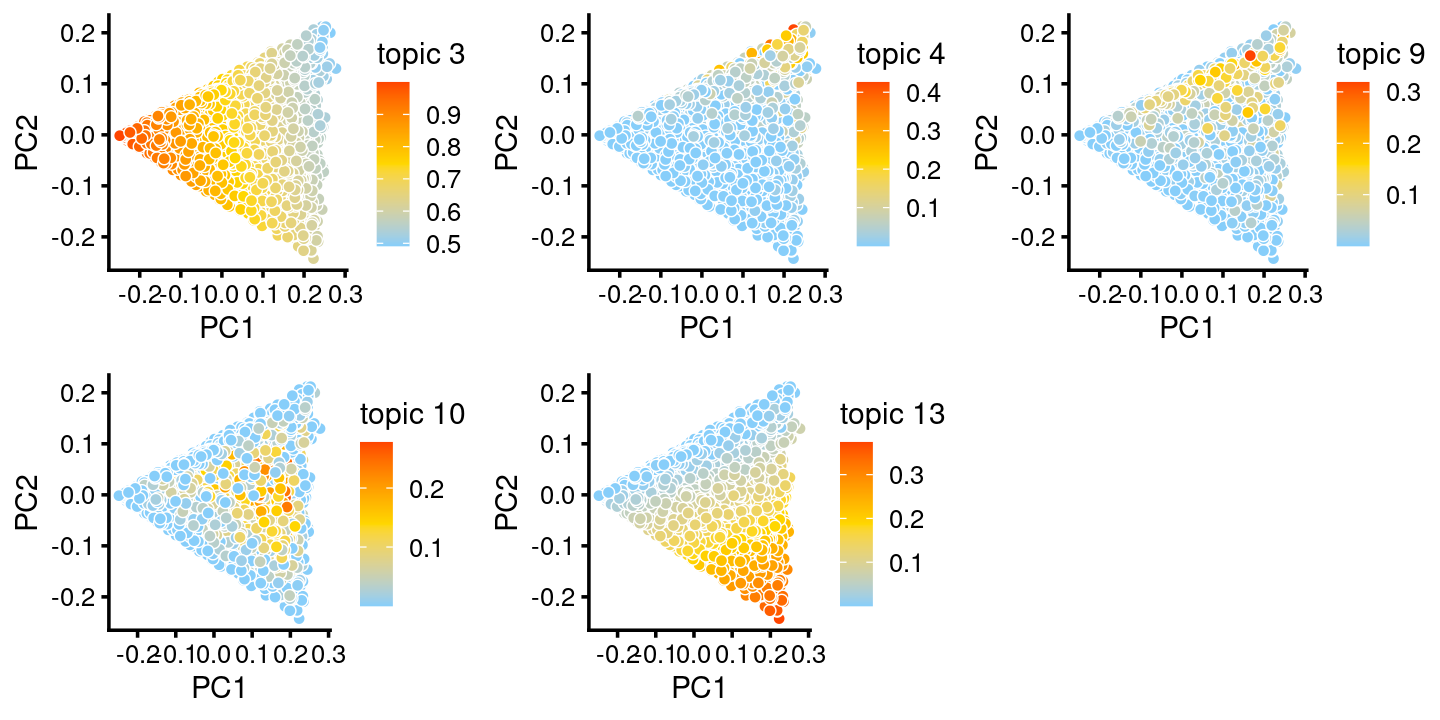
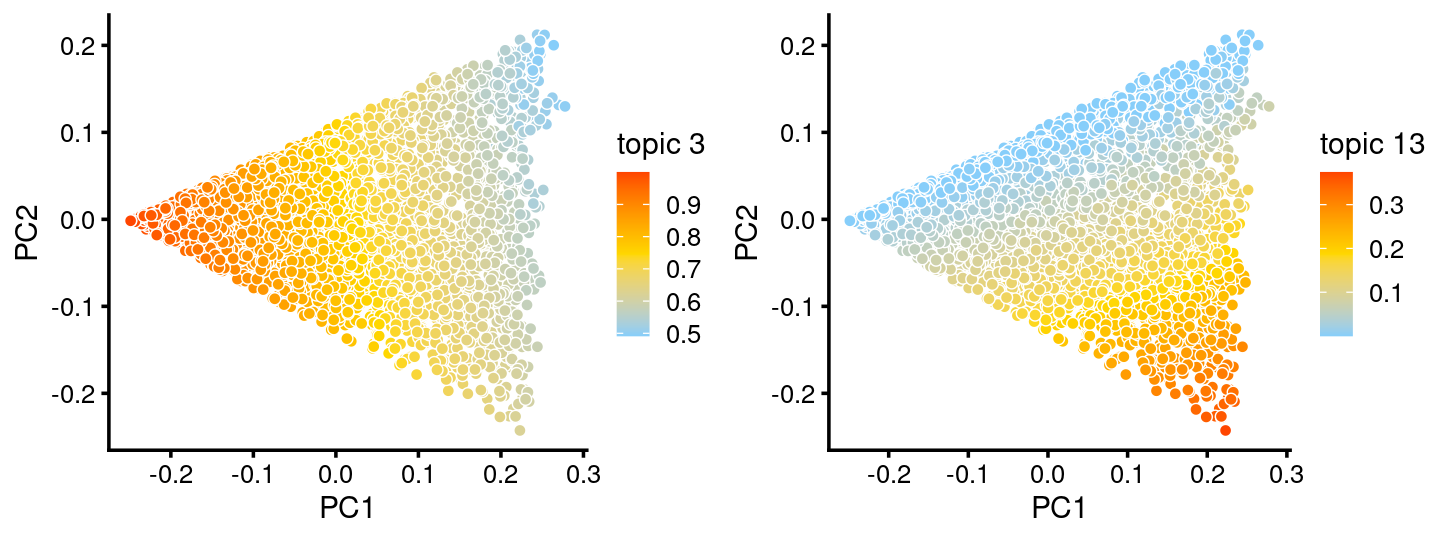
Build site.

diff --git a/docs/clusters_Cusanovich2018_k13.html b/docs/clusters_Cusanovich2018_k13.html
@@ -501,16 +501,16 @@ This reproducible <a href="http://rmarkdown.rstudio.com">R Markdown</a> analysis
 <div class="panel panel-default">
 <div class="panel-heading">
 <p class="panel-title">
-<a data-toggle="collapse" data-parent="#workflowr-checks" href="#strongRepositoryversionstrongahrefhttpsgithubcomstephenslabscATACseqtopicstree586af90be0b53f3c537e043570a352acaccf9b2etargetblank586af90a"> <span class="glyphicon glyphicon-ok text-success" aria-hidden="true"></span> <strong>Repository version:</strong> <a href="https://github.com/stephenslab/scATACseq-topics/tree/586af90be0b53f3c537e043570a352acaccf9b2e" target="_blank">586af90</a> </a>
+<a data-toggle="collapse" data-parent="#workflowr-checks" href="#strongRepositoryversionstrongahrefhttpsgithubcomstephenslabscATACseqtopicstreeb30b5c6404eb0279fd9906ff365db595986ee4d1targetblankb30b5c6a"> <span class="glyphicon glyphicon-ok text-success" aria-hidden="true"></span> <strong>Repository version:</strong> <a href="https://github.com/stephenslab/scATACseq-topics/tree/b30b5c6404eb0279fd9906ff365db595986ee4d1" target="_blank">b30b5c6</a> </a>
 </p>
 </div>
[2 lines of base64/hex data omitted]
 <div class="panel-body">
 <p>
 Great! You are using Git for version control. Tracking code development and connecting the code version to the results is critical for reproducibility.
 </p>
 <p>
-The results in this page were generated with repository version <a href="https://github.com/stephenslab/scATACseq-topics/tree/586af90be0b53f3c537e043570a352acaccf9b2e" target="_blank">586af90</a>. See the <em>Past versions</em> tab to see a history of the changes made to the R Markdown and HTML files.
+The results in this page were generated with repository version <a href="https://github.com/stephenslab/scATACseq-topics/tree/b30b5c6404eb0279fd9906ff365db595986ee4d1" target="_blank">b30b5c6</a>. See the <em>Past versions</em> tab to see a history of the changes made to the R Markdown and HTML files.
 </p>
 <p>
 Note that you need to be careful to ensure that all relevant files for the analysis have been committed to Git prior to generating the results (you can use <code>wflow_publish</code> or <code>wflow_git_commit</code>). workflowr only checks the R Markdown file, but you know if there are other scripts or data files that it depends on. Below is the status of the Git repository when the results were generated:
@@ -573,6 +573,40 @@ Message
 </tr>
 </thead>
 <tbody>
+<tr>
+<td>
+Rmd
+</td>
+<td>
+<a href="https://github.com/stephenslab/scATACseq-topics/blob/b30b5c6404eb0279fd9906ff365db595986ee4d1/analysis/clusters_Cusanovich2018_k13.Rmd" target="_blank">b30b5c6</a>
+</td>
+<td>
+kevinlkx
+</td>
+<td>
+2020-12-02
+</td>
+<td>
+print outlier cells in c15
+</td>
+</tr>
+<tr>
+<td>
+html
+</td>
+<td>
+<a href="https://rawcdn.githack.com/stephenslab/scATACseq-topics/24c6d8b44c56fb081679e8bd901c75c4a9c268f6/docs/clusters_Cusanovich2018_k13.html" target="_blank">24c6d8b</a>
+</td>
+<td>
+kevinlkx
+</td>
+<td>
+2020-12-02
+</td>
+<td>
+Build site.
+</td>
+</tr>
 <tr>
 <td>
 Rmd
@@ -2288,6 +2322,17 @@ Date
 <tbody>
 <tr>
 <td>
+<a href="https://github.com/stephenslab/scATACseq-topics/blob/24c6d8b44c56fb081679e8bd901c75c4a9c268f6/docs/figure/clusters_Cusanovich2018_k13.Rmd/structure-plot-c2-1-1.png" target="_blank">24c6d8b</a>
+</td>
+<td>
+kevinlkx
+</td>
+<td>
+2020-12-02
+</td>
+</tr>
+<tr>
+<td>
 <a href="https://github.com/stephenslab/scATACseq-topics/blob/96392bfdfa9ac41a77985ae18763ba93a6d2f497/docs/figure/clusters_Cusanovich2018_k13.Rmd/structure-plot-c2-1-1.png" target="_blank">96392bf</a>
 </td>
 <td>
@@ -2356,8 +2401,8 @@ kevinlkx
 </table>
 </div>
 </div>
-<p>The variation in PCs 1 and 2 is mostly produced by topics 3,4,9,10,13</p>
-<pre class="r"><code>p.pca.c2.topics &lt;- pca_plot(fit.c2,k = c(3,4,9,10,13))
+<p>The variation in PCs 1 and 2 is mostly produced by topics 3,13</p>
+<pre class="r"><code>p.pca.c2.topics &lt;- pca_plot(fit.c2,k = c(3,13))
 print(p.pca.c2.topics)</code></pre>
 <p><img src="figure/clusters_Cusanovich2018_k13.Rmd/pca-c2-topics-1.png" width="720" style="display: block; margin: auto;" /></p>
 <p>
@@ -2509,6 +2554,17 @@ Date
 </tr>
 </thead>
 <tbody>
+<tr>
+<td>
+<a href="https://github.com/stephenslab/scATACseq-topics/blob/24c6d8b44c56fb081679e8bd901c75c4a9c268f6/docs/figure/clusters_Cusanovich2018_k13.Rmd/structure-plot-c5-1-1.png" target="_blank">24c6d8b</a>
+</td>
+<td>
+kevinlkx
+</td>
+<td>
+2020-12-02
+</td>
+</tr>
 <tr>
 <td>
 <a href="https://github.com/stephenslab/scATACseq-topics/blob/96392bfdfa9ac41a77985ae18763ba93a6d2f497/docs/figure/clusters_Cusanovich2018_k13.Rmd/structure-plot-c5-1-1.png" target="_blank">96392bf</a>
@@ -2723,6 +2779,17 @@ Date
 <tbody>
 <tr>
 <td>
+<a href="https://github.com/stephenslab/scATACseq-topics/blob/24c6d8b44c56fb081679e8bd901c75c4a9c268f6/docs/figure/clusters_Cusanovich2018_k13.Rmd/structure-plot-c15-1-1.png" target="_blank">24c6d8b</a>
+</td>
+<td>
+kevinlkx
+</td>
+<td>
+2020-12-02
+</td>
+</tr>
+<tr>
+<td>
 <a href="https://github.com/stephenslab/scATACseq-topics/blob/96392bfdfa9ac41a77985ae18763ba93a6d2f497/docs/figure/clusters_Cusanovich2018_k13.Rmd/structure-plot-c15-1-1.png" target="_blank">96392bf</a>
 </td>
 <td>
@@ -2893,6 +2960,17 @@ kevinlkx
 #               1394                965                  3                  5 
 #  SOM+ Interneurons            Unknown 
 #                466                230</code></pre>
+<pre class="r"><code>
+print(samples[intersect(rows.c15, which(samples$tissue == &quot;Lung&quot;)),])
+#                                       cell tissue tissue.replicate cluster
+# 22109 TCCGCGAATAGGTAACTTACTGAGCGACGGCTCTGA   Lung      Lung2_62216      15
+# 61277 TCTCGCGCTATTGCTGGACCTCCGACGGGTACTGAC   Lung      Lung2_62216       5
+#       subset_cluster   tsne_1    tsne_2 subset_tsne1 subset_tsne2
+# 22109              2 -1.07335 -12.29793    -8.494056    -4.764539
+# 61277              2 -1.77437 -23.62355     4.220333     2.583797
+#                          id         cell_label cluster_kmeans
+# 22109 clusters_15.cluster_2 Inhibitory neurons            c15
+# 61277  clusters_5.cluster_2   Ex. neurons SCPN            c15</code></pre>
 </div>
 <div id="zoom-into-cluster-c6" class="section level4">
 <h4>zoom into cluster c6</h4>
@@ -2931,6 +3009,17 @@ Date
 </tr>
 </thead>
 <tbody>
+<tr>
+<td>
+<a href="https://github.com/stephenslab/scATACseq-topics/blob/24c6d8b44c56fb081679e8bd901c75c4a9c268f6/docs/figure/clusters_Cusanovich2018_k13.Rmd/structure-plot-c6-1-1.png" target="_blank">24c6d8b</a>
+</td>
+<td>
+kevinlkx
+</td>
+<td>
+2020-12-02
+</td>
+</tr>
 <tr>
 <td>
 <a href="https://github.com/stephenslab/scATACseq-topics/blob/96392bfdfa9ac41a77985ae18763ba93a6d2f497/docs/figure/clusters_Cusanovich2018_k13.Rmd/structure-plot-c6-1-1.png" target="_blank">96392bf</a>
@@ -3169,6 +3258,17 @@ Date
 </tr>
 </thead>
 <tbody>
+<tr>
+<td>
+<a href="https://github.com/stephenslab/scATACseq-topics/blob/24c6d8b44c56fb081679e8bd901c75c4a9c268f6/docs/figure/clusters_Cusanovich2018_k13.Rmd/structure-plot-c9-1-1.png" target="_blank">24c6d8b</a>
+</td>
+<td>
+kevinlkx
+</td>
+<td>
+2020-12-02
+</td>
+</tr>
 <tr>
 <td>
 <a href="https://github.com/stephenslab/scATACseq-topics/blob/019f436a076fb4fa8cd57c16d939fd718823c649/docs/figure/clusters_Cusanovich2018_k13.Rmd/structure-plot-c9-1-1.png" target="_blank">019f436</a>
